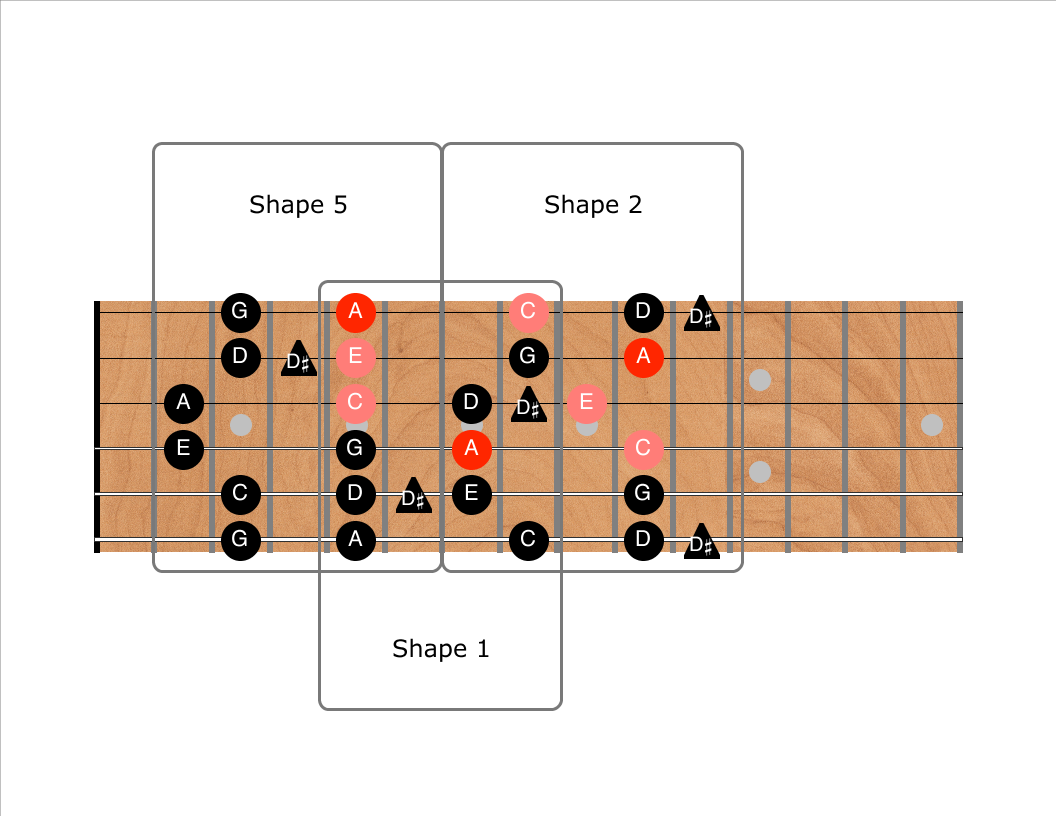
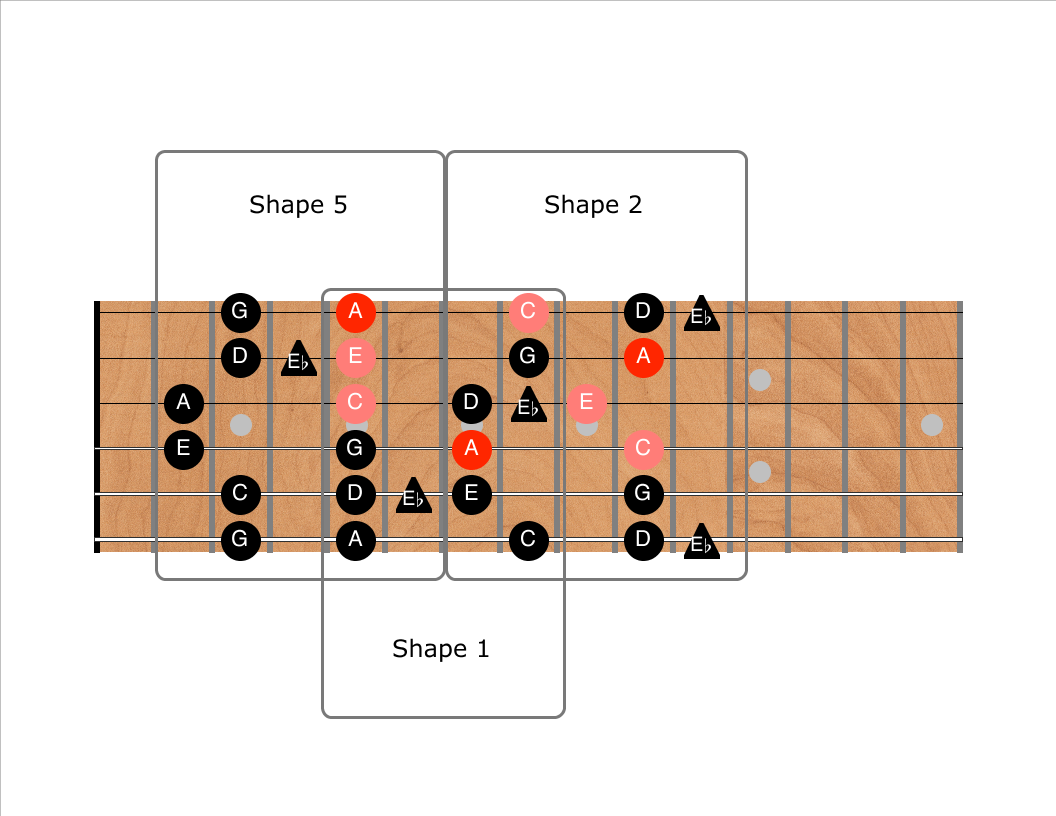
Added blue notes

Changed region(s): [[0.125, 0.1532, 0.7188, 0.8885], [0.375, 0.5821, 0.4375, 0.6434], [0.4062, 0.5208, 0.4375, 0.5515]]

diff --git a/content/post/2020-01-04-connecting-pentatonics.md b/content/post/2020-01-04-connecting-pentatonics.md
@@ -16,7 +16,7 @@ Chords and scales are intimately connected. Consider these three (inter-connecte
 {{< figure src="/img/neck-diagrams/Am-5-1-2.png" title="Am Pentatonic shapes 5, 1, and 2" >}}
 </div>
 
-The root notes (A) of the scale are shown in red. The remaining notes in the two Am chord shapes on the top four strings are also shown in salmon. (Note that these chord shapes are just triads on the top three strings, with the highest note doubled on the 4th string in a lower octave.)
+The root notes (A) of the scale are shown in red. The remaining notes in the two Am chord shapes on the top four strings are also shown in salmon. (Note that these chord shapes are just triads on the top three strings, with the highest note doubled on the 4th string in a lower octave.) The "blue notes" are shown with a triangle.
 
 This post is about **connecting** these shapes in your mind. When you play or even *think about* the Am shape on the top three strings at the 5th fret, your mind should immediately fill in the rest of *both* Am pentatonic shapes on either side of the chord (shapes 5 and 1). You should practice these shapes until the connection in your mind between the chord shape and the adjacent pentatonic shapes is automatic.
 

diff --git a/content/post/2019-01-04-four-groups-of-three.md b/content/post/2019-01-04-four-groups-of-three.md
@@ -1,0 +1,9 @@
+---
+title: "2019 01 04 Four Groups of Three"
+author: ""
+date: 2020-01-04T21:25:08-08:00
+subtitle: ""
+image: ""
+tags: []
+draft: true
+---
